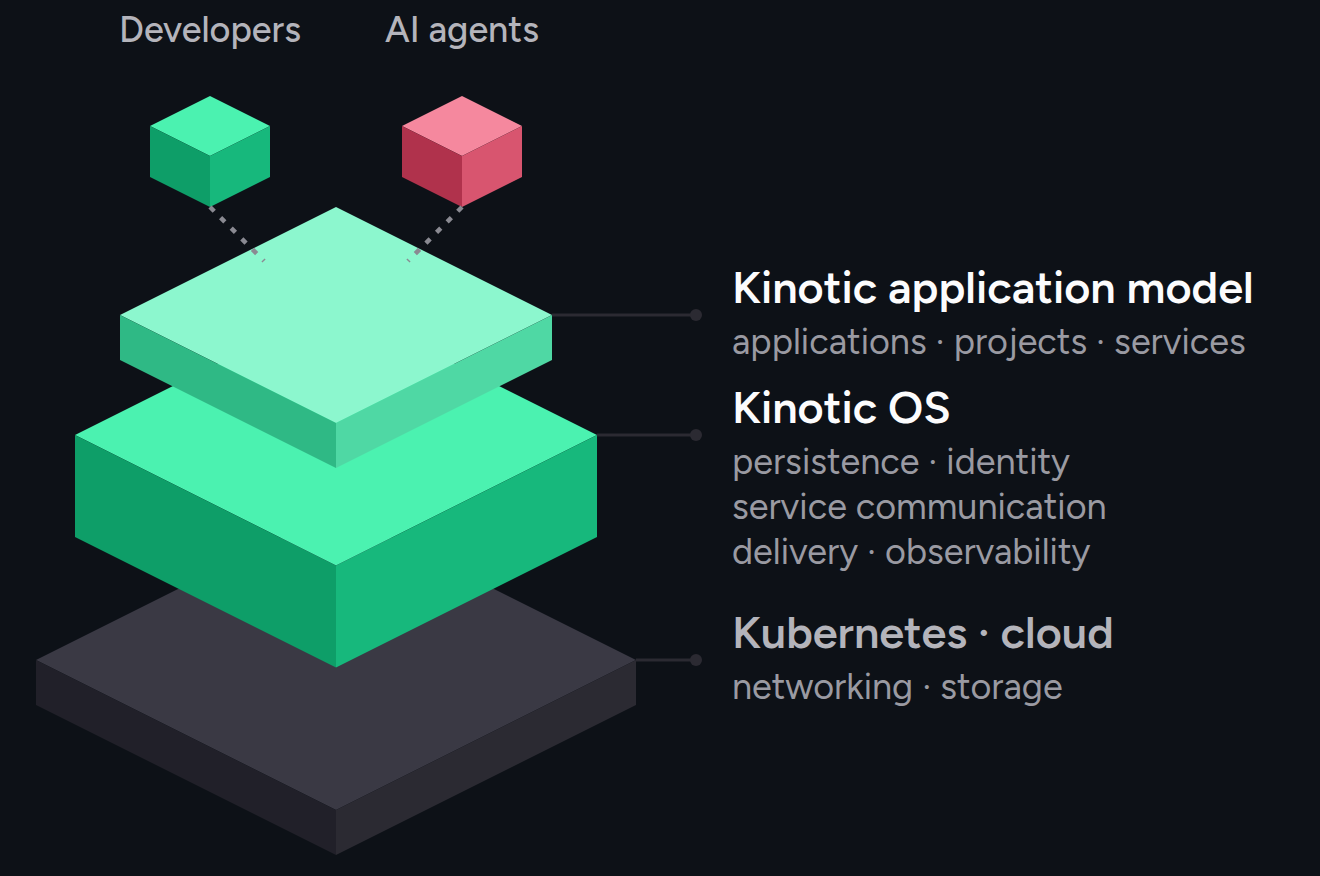
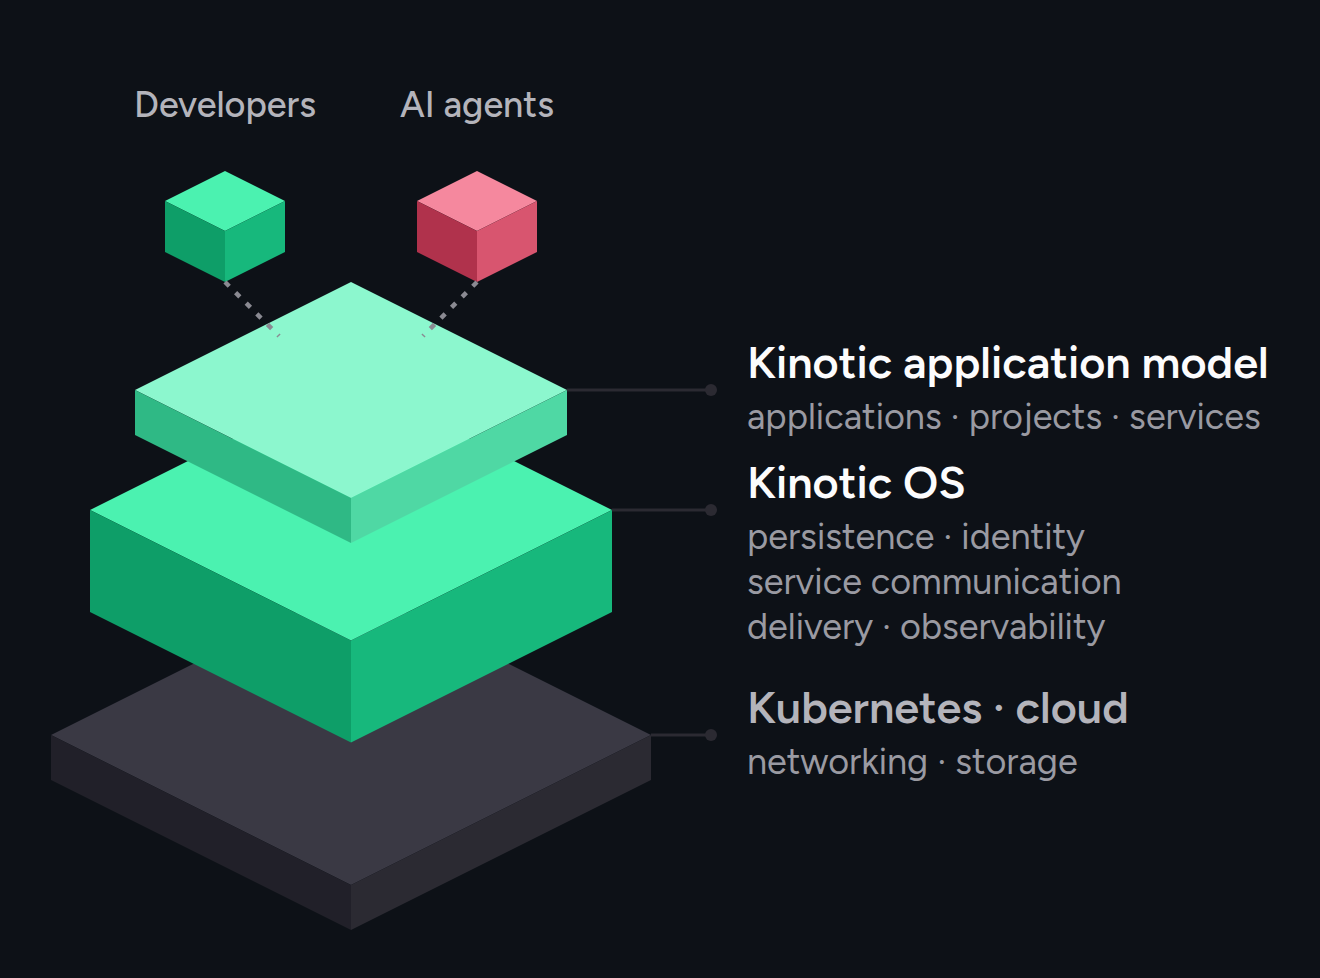
Give the diagrams air, and darken their small-caps labels (#590)
* Give the diagrams air, and darken their small-caps labels

Four things seen in the rendered README.

GitHub leaves 16px between a paragraph and the image after it but 24px or more
before the heading that follows, so every diagram sat closer to the text above
it than the text below — worst on core concepts, 16 against 31. `.d` now carries
`padding: 18px 0 6px`, which reads as 34 above and 37 below.

`For decades` and `Increasingly` were 11px uppercase in `dim` (#6B7681 on white)
and did not hold. They and the `promote` labels are `body` at 600 now; the
`kinotic-server` caption moves from `dim` to `muted`, a step lighter than the
lane labels since it is a caption rather than an axis.

`**Kinotic does everything in between.**` loses its bold. It is the fourth beat
of a four-line sequence whose other three are plain, and set in bold right above
a large graphic it read as a caption for the graphic rather than the end of the
sequence.

Every declared height grows by the 24px of padding; `.d` is `border-box`, so
without that the content would have been squeezed instead.

Claude-Session: https://claude.ai/code/session_01EvoZVi9sNowJbKd7zzzNvL

* The abstraction layer's ground slab was cropped by its own viewBox

Its bottom vertex sits at y=360 in user units while the wide variant's viewBox
ended at 348, so twelve pixels of the slab were cut. An svg clips to its own
viewport, so the page still measured 322px tall and the DOM height check that
[…]

diff --git a/.github/assets/diagrams/render.js b/.github/assets/diagrams/render.js
@@ -50,6 +50,26 @@ async function main() {
     await send('Emulation.setDeviceMetricsOverride',
       { width: job.w, height: job.h, deviceScaleFactor: 1, mobile: false });
     await sleep(900);
+    // An svg clips to its viewport, so geometry outside the viewBox is cropped at full
+    // declared height and no DOM measurement can see it. Compare the two directly.
+    const clipped = await send('Runtime.evaluate', {
+      returnByValue: true,
+      expression: `[...document.querySelectorAll('svg[viewBox]')]
+        .filter(s => s.getAttribute('aria-hidden') !== 'true')
+        .flatMap(s => {
+          const vb = s.getAttribute('viewBox').split(/\\s+/).map(Number);
+          const b = s.getBBox();
+          return Object.entries({
+            top: vb[1] - b.y,
+            bottom: (b.y + b.height) - (vb[1] + vb[3]),
+            left: vb[0] - b.x,
+            right: (b.x + b.width) - (vb[0] + vb[2]),
+          }).filter(([, v]) => v > 0.5).map(([k, v]) => k + ' by ' + Math.round(v) + 'px');
+        }).join(', ')`,
+    });
+    if (clipped.result.value) {
+      throw new Error(`${job.html}: geometry outside the viewBox — ${clipped.result.value}`);
+    }
     const shot = await send('Page.captureScreenshot', {
       format: 'png',
       captureBeyondViewport: true,

diff --git a/.github/assets/diagrams/diagrams.py b/.github/assets/diagrams/diagrams.py
@@ -75,7 +75,7 @@ def abstraction_layer(t):
         f'<path d="M {x} {y} L 232 {y}" stroke="{t["line"]}" stroke-width="1"/>'
         f'<circle cx="232" cy="{y}" r="2" fill="{t["line"]}"/>'
         for x, y in ((184, 135), (199, 175), (212, 250)))
-    svg = (f'<svg width="440" height="292" viewBox="0 30 440 292" role="img" '
+    svg = (f'<svg width="440" height="302" viewBox="-5 23 440 302" role="img" '
            f'aria-label="Developers and AI agents work through the Kinotic application model, '
            f'which sits on Kinotic OS, which sits on Kubernetes, cloud, networking and storage">'
            f'{leaders}{g}{feed}'
@@ -90,7 +90,7 @@ def abstraction_layer(t):
            f'<text x="244" y="246" class="t-name-dim">Kubernetes · cloud</text>'
            f'<text x="244" y="263" class="t-sub">networking · storage</text>'
            f'</svg>')
-    return f'<div class="d" style="width:440px;height:292px">{svg}</div>'
+    return f'<div class="d" style="width:440px;height:326px">{svg}</div>'
 
 # ---------------------------------------------------------------- diagram 2
 
@@ -103,7 +103,7 @@ def core_concepts(t):
         f'<div class="card-h">{glyph(17)}<span class="card-t">Project</span></div>'
         f'<div class="chips">' + ''.join(f'<span class="chip">{a}</span>' for a in arts) + '</div>'
         f'</div>' for arts in projects)
-    return (f'<div class="d" style="width:440px;height:256px">'
+    return (f'<div class="d" style="width:440px;height:280px">'
             f'<div class="outer">'
             f'<div class="outer-h">{cluster(26)}'
             f'<span class="outer-t">Application</span></div>'
@@ -126,7 +126,7 @@ def environments(t):
             f'<path d="M 30 138 L 30 256" stroke="{t["rail"]}" stroke-width="1.5"/>'
             f'<path d="M 30 264 l -3.5 -8 h 7 z" fill="{t["rail"]}"/>')
     promote = ''.join(f'<text x="64" y="{y}" class="t-cap-up">promote</text>' for y in (180, 236))
-    svg = (f'<svg width="300" height="280" viewBox="0 8 300 280" role="img" '
+    svg = (f'<svg width="300" height="280" viewBox="-37 8 300 280" role="img" '
            f'aria-label="A feature branch gets an isolated environment that is built and tested, '
            f'then promoted through development, staging and production">'
            f'{line}{ring(24)}{ring(76)}{cubes}'
@@ -134,7 +134,7 @@ def environments(t):
            f'<text x="64" y="81" class="t-name">Isolated environment</text>'
            f'<text x="64" y="97" class="t-sub">built and tested</text>'
            f'{names}{promote}</svg>')
-    return f'<div class="d" style="width:300px;height:280px">{svg}</div>'
+    return f'<div class="d" style="width:300px;height:304px">{svg}</div>'
 
 # ---------------------------------------------------------------- diagram 4
 
@@ -165,7 +165,7 @@ def architecture(t):
              f'preserveAspectRatio="none" aria-hidden="true">'
              f'<path d="M 11 0 L 11 236" stroke="{t["line"]}" stroke-width="1" fill="none"/>'
              f'</svg>')
-    return (f'<div class="d" style="width:440px;height:761px">'
+    return (f'<div class="d" style="width:440px;height:785px">'
             f'<div class="row3 g10">{client_tiles}</div>'
             f'{drops([72, 220, 368], 20)}'
             f'<div class="gw"><span class="mono mono-gw">kinotic-api-gateway</span>'
@@ -196,7 +196,7 @@ def vision(t):
                                ('Production', 0)], True)
     new = lane('Increasingly', [('Human', 0), ('Intent', 1), ('AI agent', 1), ('Software', 0),
                                 ('Production', 0)], False)
-    return f'<div class="d" style="width:440px;height:274px"><div class="lanes">{old}{new}</div></div>'
+    return f'<div class="d" style="width:440px;height:298px"><div class="lanes">{old}{new}</div></div>'
 
 # ================================================================ wide variants
 # Same content and type scale as the narrow set, laid out for a desktop column.
@@ -212,7 +212,7 @@ def w_abstraction_layer(t):
         f'<path d="M {x} {y} L 300 {y}" stroke="{t["line"]}" stroke-width="1"/>'
         f'<circle cx="300" cy="{y}" r="2" fill="{t["line"]}"/>'
         for x, y in ((251, 150), (269, 196), (285, 282)))
-    svg = (f'<svg width="560" height="322" viewBox="0 26 560 322" role="img" '
+    svg = (f'<svg width="560" height="344" viewBox="-15 26 560 344" role="img" '
            f'aria-label="Developers and AI agents work through the Kinotic application model, '
            f'which sits on Kinotic OS, which sits on Kubernetes, cloud, networking and storage">'
            f'{leaders}{g}{feed}'
@@ -227,7 +227,7 @@ def w_abstraction_layer(t):
            f'<text x="312" y="278" class="t-name-dim">Kubernetes · cloud</text>'
            f'<text x="312" y="295" class="t-sub">networking · storage</text>'
            f'</svg>')
-    return f'<div class="d" style="width:560px;height:322px">{svg}</div>'
+    return f'<div class="d" style="width:560px;height:368px">{svg}</div>'
 
 
 def w_core_concepts(t):
@@ -238,7 +238,7 @@ def w_core_concepts(t):
         f'<div class="card-h">{glyph(17)}<span class="card-t">Project</span></div>'
         f'<div class="chips chips-col">' + ''.join(f'<span class="chip">{a}</span>' for a in arts)
         + '</div></div>' for arts in projects)
-    return (f'<div class="d" style="width:620px;height:178px">'
+    return (f'<div class="d" style="width:620px;height:202px">'
             f'<div class="outer">'
             f'<div class="outer-h outer-h-row">{cluster(26)}'
             f'<span class="outer-t">Application</span>'
@@ -258,11 +258,11 @@ def w_environments(t):
     drop = (f'<path d="M 232 4 C 232 70 150 64 150 122" fill="none" stroke="{t["mintEdge"]}" '
             f'stroke-width="1.5" stroke-dasharray="4 4"/>'
             f'<path d="M 150 131 l -4 -8 h 8 z" fill="{t["mintEdge"]}"/>')
-    svg = (f'<svg width="620" height="214" viewBox="0 0 620 214" role="img" '
+    svg = (f'<svg width="620" height="214" viewBox="29 0 620 214" role="img" '
            f'aria-label="A feature branch gets an isolated environment that is built and tested, '
            f'then promoted through development, staging and production">'
            f'{drop}{rail}{cubes}{names}{promote}</svg>')
-    return (f'<div class="d" style="width:620px;height:237px">'
+    return (f'<div class="d" style="width:620px;height:261px">'
             f'<div class="branch branch-row">'
             f'<span class="pill">Feature branch</span><span class="arrow">&#8594;</span>'
             f'<span class="pill pill-mint pill-row">Isolated environment'
@@ -304,7 +304,7 @@ def w_architecture(t):
         return f'<svg width="{w}" height="{h}" viewBox="0 0 {w} {h}" aria-hidden="true">{p}</svg>'
 
     # module tiles are 274 wide inside a panel padded 16 → centres 153, 440, 727
-    return (f'<div class="d" style="width:{W}px;height:474px">'
+    return (f'<div class="d" style="width:{W}px;height:498px">'
             f'<div class="row3 g16">{client_tiles}</div>'
             f'{drops([148, 440, 732], 22)}'
             f'<div class="gw gw-row"><span class="mono mono-gw">kinotic-api-gateway</span>'
@@ -334,7 +334,7 @@ def w_vision(t):
                                ('Production', 0)], True)
     new = lane('Increasingly', [('Human', 0), ('Intent', 1), ('AI agent', 1), ('Software', 0),
                                 ('Production', 0)], False)
-    return (f'<div class="d" style="width:660px;height:84px">'
+    return (f'<div class="d" style="width:660px;height:108px">'
             f'<div class="lanes lanes-row">{old}{new}</div></div>')
 
 # `.pane-l` / `.pane-d` are only a scoping hook: every colour lives in scoped() below,
@@ -342,7 +342,7 @@ def w_vision(t):
 CSS = """
 *{box-sizing:border-box}
 body{margin:0;font-family:'Figtree',system-ui,sans-serif}
-.d{position:relative}
+.d{position:relative;padding:18px 0 6px}
 .d>svg{display:block}
 .g{display:block;flex:none}
 """
@@ -356,7 +356,7 @@ def scoped(t):
     p = f'.pane-{t["name"][0]}'
     return f"""
 {p} .t-cap{{font:500 12px 'Figtree',sans-serif;fill:{t['body']}}}
-{p} .t-cap-up{{font:500 11px 'Figtree',sans-serif;letter-spacing:.12em;text-transform:uppercase;fill:{t['dim']}}}
+{p} .t-cap-up{{font:600 11px 'Figtree',sans-serif;letter-spacing:.12em;text-transform:uppercase;fill:{t['body']}}}
 {p} .t-name{{font:600 15px 'Figtree',sans-serif;fill:{t['heading']}}}
 {p} .t-name-dim{{font:600 15px 'Figtree',sans-serif;fill:{t['body']}}}
 {p} .t-sub{{font:400 12px 'Figtree',sans-serif;fill:{t['muted']}}}
@@ -400,11 +400,11 @@ flex-direction:column;gap:2px}}
 {p} .server{{border:1px solid {t['line']};border-radius:12px;padding:12px 14px 14px;
 background:{t['panel']}}}
 {p} .server-tab{{display:block;margin-bottom:9px;
-font:500 11px 'Fira Code',monospace;letter-spacing:.04em;color:{t['dim']}}}
+font:500 11px 'Fira Code',monospace;letter-spacing:.04em;color:{t['muted']}}}
 {p} .lanes{{display:grid;grid-template-columns:repeat(2,minmax(0,1fr));gap:24px}}
 {p} .lane{{display:flex;flex-direction:column;gap:10px}}
-{p} .lane-l{{font:500 11px 'Figtree',sans-serif;letter-spacing:.12em;text-transform:uppercase;
-color:{t['dim']}}}
+{p} .lane-l{{font:600 11px 'Figtree',sans-serif;letter-spacing:.12em;text-transform:uppercase;
+color:{t['body']}}}
 {p} .lane-c{{display:flex;flex-direction:column;align-items:center;gap:3px}}
 {p} .v-chip{{font:600 13px 'Figtree',sans-serif;color:{t['text']};border:1px solid {t['line']};
 border-radius:8px;padding:8px 12px;background:{t['chip']};width:100%;text-align:center}}
@@ -432,15 +432,15 @@ border-radius:8px;padding:8px 12px;background:{t['chip']};width:100%;text-align:
 # key, title, narrow (fn, w, h), wide (fn, w, h)
 SPECS = [
     ('abstraction-layer', 'A different abstraction layer',
-     (abstraction_layer, 440, 292), (w_abstraction_layer, 560, 322)),
+     (abstraction_layer, 440, 326), (w_abstraction_layer, 560, 368)),
     ('core-concepts', 'Core concepts',
-     (core_concepts, 440, 256), (w_core_concepts, 620, 178)),
+     (core_concepts, 440, 280), (w_core_concepts, 620, 202)),
     ('environments', 'CI/CD environments',
-     (environments, 300, 280), (w_environments, 620, 237)),
+     (environments, 300, 304), (w_environments, 620, 261)),
     ('architecture', 'Architecture',
-     (architecture, 440, 761), (w_architecture, 880, 474)),
+     (architecture, 440, 785), (w_architecture, 880, 498)),
     ('vision', 'The vision',
-     (vision, 440, 274), (w_vision, 660, 84)),
+     (vision, 440, 298), (w_vision, 660, 108)),
 ]
 
 ROOT = os.path.dirname(os.path.dirname(os.path.dirname(os.path.dirname(

diff --git a/.github/assets/README.md b/.github/assets/README.md
@@ -32,6 +32,12 @@ node render.js        # screenshots them at 2x into the PNGs beside it
 `render.js` finds Chromium through `CHROME`, then `PLAYWRIGHT_BROWSERS_PATH`, then the usual
 system locations. `build/` is scratch and is not committed.
 
+Before it screenshots a page, `render.js` compares each `<svg>`'s `getBBox()` against its
+`viewBox` and refuses to render if any geometry falls outside. An svg clips to its own
+viewport, so a slab drawn past the bottom edge is cropped silently at the full declared
+height — the page measures correctly and the PNG is wrong. That is how the abstraction
+layer shipped with 12px of its ground slab missing.
+
 ### Why the narrow variant renders at 3x and the wide one at 2x
 
 Each is rendered at the density the screen it lands on actually asks for:
@@ -78,6 +84,11 @@ exactly. Package names are set in the mono face; everything else is Figtree.
 neutral ramp what a caller brings, `#2B2A32` the infrastructure underneath — dark in both
 themes, because it is not ours. Red appears only on the AI-agent cube, matching
 `marks/humans-and-agents.svg`; it never marks a component.
+
+**18px of air on top, 6px underneath.** GitHub leaves 16px between a paragraph and the
+image after it but 24px or more before the heading that follows, so a diagram with no
+padding of its own sits closer to the text above than the text below. The padding is inside
+`.d`, which is `border-box`, so every declared height carries the 24px.
 
 **Isometry only where it means something.** The abstraction layer is a stack, so it is drawn
 as isometric slabs; promotion moves forward, so its environments are cubes on a line.

diff --git a/README.md b/README.md
@@ -96,16 +96,7 @@ AI coding systems are making software creation nearly free.
 
 Kinotic provides an application-level model that understands:
 
-- applications
-- projects
-- domain models
-- services
-- APIs
-- permissions
-- artifacts
-- environments
-- deployments
-- runtime behavior
+applications&nbsp;· projects&nbsp;· domain&nbsp;models&nbsp;· services&nbsp;· APIs&nbsp;· permissions&nbsp;· artifacts&nbsp;· environments&nbsp;· deployments&nbsp;· runtime&nbsp;behavior
 
 This gives both humans and AI agents a constrained, inspectable way to create and operate software.
 
